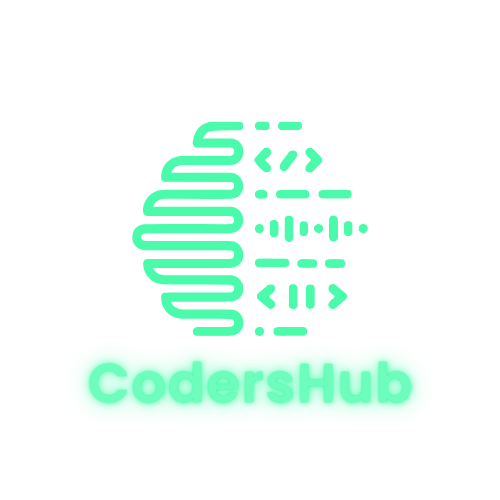
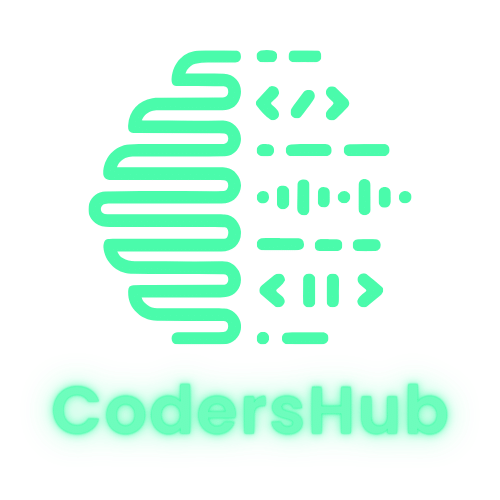
Design for the nav

diff --git a/index.html b/index.html
@@ -5,8 +5,8 @@
     <meta name="viewport" content="width=device-width, initial-scale=1.0">
 
     <link rel="preconnect" href="https://fonts.googleapis.com">
-<link rel="preconnect" href="https://fonts.gstatic.com" crossorigin>
-<link href="https://fonts.googleapis.com/css2?family=Poppins:wght@300;400;500;700;800&display=swap" rel="stylesheet">
+    <link rel="preconnect" href="https://fonts.gstatic.com" crossorigin>
+    <link href="https://fonts.googleapis.com/css2?family=Poppins:wght@300;400;500;700;800&display=swap" rel="stylesheet">
 
     <link rel="stylesheet" href="https://cdn.jsdelivr.net/gh/jgthms/minireset.css@master/minireset.min.css">
     <link rel="stylesheet" href="src/style/main.scss">
@@ -15,15 +15,15 @@
 <body>
     <div class="main-container">
         <header class="main-header">
-            <img src="./src/assets/img/CodersHub.png" alt="Logo de CodersHub">
+            <img class="nav-logo" src="./src/assets/img/CodersHub.png" alt="Logo de CodersHub">
             <nav>
                 <ul class="nav-list">
-                    <li><a class="link link-active" href="">Blog</a></li>
-                    <li><a class="link" href="">Quienes somos</a></li>
-                    <li><a class="link" href="">Registro</a></li>
+                    <li class="nav-item"><a class="link link-active" href="">Blog</a></li>
+                    <li class="nav-item"><a class="link" href="">Quienes somos</a></li>
+                    <li class="nav-item"><a class="link" href="">Registro</a></li>
                 </ul>
-                <a href="">Contáctame</a>
             </nav>
+            <a class="link link-bold" href="">Contáctame</a>
         </header>
         <main>
             <section class="tags-container">

diff --git a/src/style/objects.scss b/src/style/objects.scss
@@ -4,3 +4,16 @@
     @include tools.container-width();
     padding: var(--container-padding);
 }
+
+.main-header{
+    display: flex;
+    align-items: center;
+    justify-content: space-between;
+    padding: 10px 40px;
+    margin: 20px 0;
+    background-color: var(--color-space-cadet);
+    border-radius: 100px;
+    @include tools.container-width();
+    @include tools.desktop{
+    }
+}

diff --git a/src/style/elements.scss b/src/style/elements.scss
@@ -4,8 +4,6 @@ body{
     display: flex;
     flex-direction: column;
     align-items: center;
-
-    margin: 0 auto;
     font-family: "Poppins";
     background-color: var(--color-cetacean-blue);
 }

diff --git a/src/style/components/navbar.scss b/src/style/components/navbar.scss
@@ -1,0 +1,11 @@
+.nav-logo{
+    width: 80px;
+}
+.nav-list{
+    display: flex;
+    justify-content: space-between;
+    align-items: center;
+}
+.nav-item{
+    padding: 0 10px;
+}

diff --git a/src/style/components/link.scss b/src/style/components/link.scss
@@ -6,3 +6,6 @@
     border-left: 1px solid var(--color-lotion);
     border-radius: 100px;
 }
+.link-bold{
+    font-weight: 600;
+}
